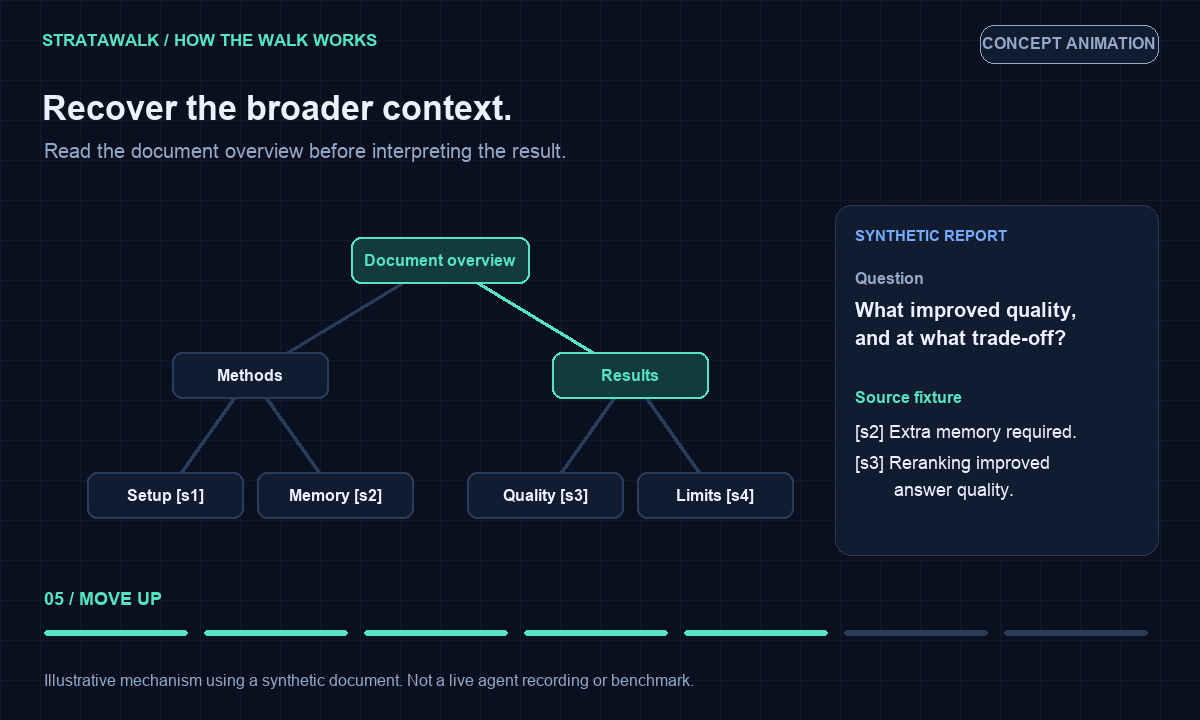
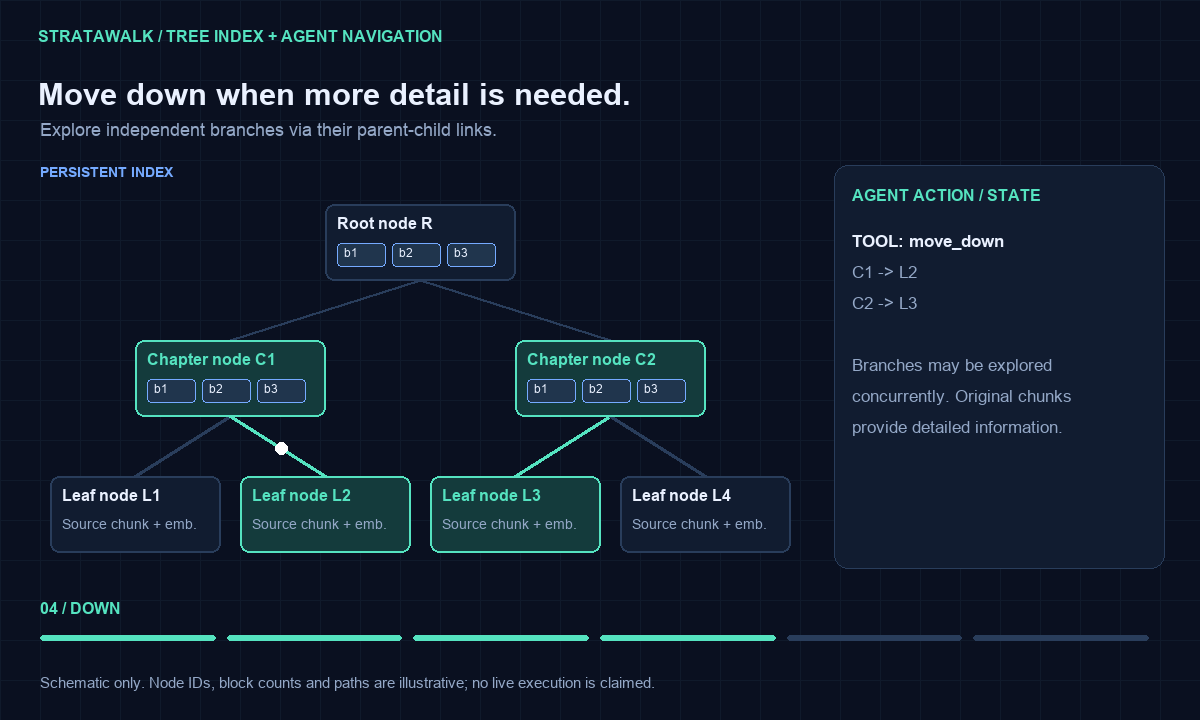
docs: align visuals with tree index and agent navigation

diff --git a/scripts/render_visuals.py b/scripts/render_visuals.py
@@ -25,7 +25,7 @@ def node(d,x,y,label,active=False,width=156):
 # Static hero: one compact brand surface, with readable text and a miniature tree.
 im,d=base(); text(d,(65,58),'STRATAWALK',19,TEAL,True)
 text(d,(65,132),'Long documents.',62,INK,True); text(d,(65,207),'Navigable memory.',62,INK,True)
-text(d,(68,309),'Give agents the big picture',27,MUTED); text(d,(68,349),'and a path back to the evidence.',27,MUTED)
+text(d,(68,309),'Build a bottom-up tree index.',27,MUTED); text(d,(68,349),'Let agents search and walk it.',27,MUTED)
 pill(d,(65,449,276,488),'BUILD BOTTOM-UP'); pill(d,(290,449,505,488),'EXPLORE ANY SCALE',BLUE)
 positions=[(925,175),(815,310),(1035,310),(760,445),(870,445),(980,445),(1090,445)]
 for a,b in [(0,1),(0,2),(1,3),(1,4),(2,5),(2,6)]: d.line((*positions[a],*positions[b]),fill=LINE,width=3)
@@ -35,48 +35,74 @@ for a,b in [(0,1),(1,4)]: d.line((*positions[a],*positions[b]),fill=TEAL,width=3
 text(d,(65,622),'ORDERED SUMMARY TREES  /  MULTI-SCALE SEARCH  /  AGENTIC NAVIGATION',18,MUTED)
 text(d,(65,666),'DESIGN PREVIEW',14,TEAL,True)
 im.save(OUT/'hero.png')
-# Animated mechanism: synthetic report, actual links, no fabricated runtime results.
-steps=[
- ('01 / BUILD','Start with source passages.','Overlapping chunks retain document order and source references.',[3,4,5,6],None),
- ('02 / ABSTRACT','Build memory from the bottom up.','Summarize adjacent groups; independent groups can run concurrently.',[1,2],None),
- ('03 / ORIENT','Keep the whole document in view.','A compact overview connects back to chapters and source passages.',[0],None),
- ('04 / SEARCH','Enter at a useful reading scale.','Semantic search finds a relevant chapter summary.',[2],(2,2)),
- ('05 / MOVE UP','Recover the broader context.','Read the document overview before interpreting the result.',[2,0],(2,0)),
- ('06 / MOVE DOWN','Follow the evidence across branches.','Inspect methods and results, then load their original passages.',[0,1,2,4,5],(0,5)),
- ('07 / FINISH','Answer from source evidence.','In this fixture, the quality gain is paired with higher memory use.',[4,5],None),
-]
-pos=[(440,260),(250,375),(630,375),(165,495),(335,495),(545,495),(715,495)]
-labels=['Document overview','Methods','Results','Setup [s1]','Memory [s2]','Quality [s3]','Limits [s4]']
-edges=[(0,1),(0,2),(1,3),(1,4),(2,5),(2,6)]
+
+# The index is a persistent structure. Tool actions live in a separate panel.
+# Node IDs are illustrative, blocks are inside nodes, and edges are node links.
+pos={ 'R':(420,242), 'C1':(230,378), 'C2':(610,378),
+      'L1':(135,514), 'L2':(325,514), 'L3':(515,514), 'L4':(705,514)}
+edges=[('R','C1'),('R','C2'),('C1','L1'),('C1','L2'),('C2','L3'),('C2','L4')]
+def box(d,key,on=False):
+ x,y=pos[key]; w=170 if key.startswith('L') else 190
+ d.rounded_rectangle((x-w/2,y-38,x+w/2,y+38),radius=9,fill='#143b3c' if on else PANEL,outline=TEAL if on else LINE,width=2)
+ title={'R':'Root node R','C1':'Chapter node C1','C2':'Chapter node C2'}.get(key,'Leaf node '+key)
+ text(d,(x-w/2+12,y-28),title,16,TEAL if on else INK,True)
+ if key.startswith('L'):
+  text(d,(x-w/2+12,y+2),'Source chunk + emb.',14,MUTED)
+ else:
+  for j in range(3):
+   left=x-w/2+12+j*55
+   d.rounded_rectangle((left,y+1,left+48,y+24),radius=4,fill='#20354d',outline=BLUE)
+   text(d,(left+7,y+4),'b'+str(j+1),12,INK)
+def canvas(title,sub):
+ im,d=base(); text(d,(38,27),'STRATAWALK / TREE INDEX + AGENT NAVIGATION',16,TEAL,True)
+ text(d,(38,76),title,31,INK,True); text(d,(40,119),sub,18,MUTED)
+ text(d,(40,164),'PERSISTENT INDEX',14,BLUE,True)
+ return im,d
+def panel(d,title,lines):
+ d.rounded_rectangle((834,165,1164,568),radius=14,fill=PANEL,outline=LINE)
+ text(d,(852,186),title,16,TEAL,True)
+ for i,line in enumerate(lines): text(d,(852,231+i*31),line,17,INK if i==0 else MUTED,i==0)
+def footer(d,n,total,label):
+ text(d,(40,599),label,16,TEAL,True)
+ step=1120/total
+ for j in range(total): d.rounded_rectangle((40+j*step,635,40+(j+1)*step-12,640),radius=2,fill=TEAL if j<=n else LINE)
+ text(d,(40,674),'Schematic only. Node IDs, block counts and paths are illustrative; no live execution is claimed.',15,MUTED)
+def drawtree(d,visible,active):
+ for a,b in edges:
+  if a in visible and b in visible:
+   x,y=pos[a]; xx,yy=pos[b]; d.line((x,y+38,xx,yy-38),fill=TEAL if a in active and b in active else LINE,width=3)
+ for key in visible: box(d,key,key in active)
+# Index construction animation: no agent/tool steps inside the tree.
+build=[
+ ('01 / CHUNK','Create ordered source leaves.','Parse d chapters; split each into overlapping, embedding-bounded chunks.', ['L1','L2','L3','L4'],['L1','L2','L3','L4'],['SOURCE ORDER','Chapter 1: L1, L2, ...','Chapter 2: L3, L4, ...','','Each leaf stores a chunk','and its embedding.']),
+ ('02 / REDUCE','Summarize groups within each chapter.','An LLM reduces n input blocks into a node containing k summary blocks.',list(pos)[1:],['C1','C2'],['BOTTOM-UP REDUCTION','[chunk blocks] -> node','node = [b1, b2, ..., bk]','','Each block gets an embedding.','Long chapters may need','multiple local reduction rounds.']),
+ ('03 / REPEAT','Reduce chapter representations upward.','Preserve source order and node links; repeat until a root budget is reached.',list(pos),['R'],['RECURSIVE ABSTRACTION','chapter nodes -> upper nodes','upper nodes -> root R','','Root contains h blocks.','Intermediate levels omitted','in this compact illustration.']),
+ ('04 / STORE','Persist structure and multi-scale embeddings.','The finished index supports both semantic entry and structural navigation.',list(pos),list(pos),['INDEX READY','Parent-child links: nodes','Embeddings: source chunks','and all summary/topic blocks','','Same-level groups can run','concurrently when independent.'])]
+bframes=[]
+for i,(tag,title,sub,visible,active,lines) in enumerate(build):
+ im,d=canvas(title,sub); drawtree(d,visible,active); panel(d,'INDEX CONSTRUCTION',lines); footer(d,i,len(build),tag)
+ bframes.append(im)
+bframes[0].save(OUT/'index-build.gif',save_all=True,append_images=bframes[1:],duration=2600,loop=0)
+bframes[-1].save(OUT/'index-structure.png')
+walk=[
+ ('01 / PLAN','Understand the question and select entry nodes.','The agent uses a compact chapter/ancestor map, embedding search, or both.',[],None,['AGENT WORKSPACE','User intent -> subquestions','Map and/or embedding search','Select m entry nodes','','Example entries: C1 and C2','The index stays unchanged.']),
+ ('02 / READ','Read several starting nodes.','A semantic hit identifies a block and its containing node.',['C1','C2'],None,['READ ENTRY NODES','C1 contains [b1, b2, b3]','C2 contains [b1, b2, b3]','','Check whether information','is sufficient to answer.']),
+ ('03 / UP','Move up when the information is too specific.','Follow parent links to read a broader abstraction.',['C1','R'],('C1','R'),['TOOL: move_up','C1 -> R','','Read the root blocks for','broader document context.','This is one optional move.']),
+ ('04 / DOWN','Move down when more detail is needed.','Explore independent branches via their parent-child links.',['C1','C2','L2','L3'],('C1','L2'),['TOOL: move_down','C1 -> L2','C2 -> L3','','Branches may be explored','concurrently. Original chunks','provide detailed information.']),
+ ('05 / COMPACT','Keep the active context within budget.','Compress the workspace while retaining findings and source references.',['L2','L3'],None,['TOOL: compact_context','Keep useful findings','Keep source/node references','Keep unresolved subquestions','','Re-enter search or navigation','when more information is needed.']),
+ ('06 / FINISH','Answer when the information is sufficient.','The agent assembles an answer from the information it has gathered.',['L2','L3'],None,['TOOL: finish','User-facing answer','Relevant source references','','Navigation is adaptive.','Every query does not need','every tool shown here.'])]
 frames=[]
-for si,(tag,title,sub,active,travel) in enumerate(steps):
+for si,(tag,title,sub,active,travel,lines) in enumerate(walk):
  for fi in range(12):
-  im,d=base(); text(d,(42,30),'STRATAWALK / HOW THE WALK WORKS',17,TEAL,True)
-  pill(d,(980,25,1158,63),'CONCEPT ANIMATION',MUTED)
-  text(d,(42,89),title,34,INK,True); text(d,(44,139),sub,20,MUTED)
-  for a,b in edges: d.line((*pos[a],*pos[b]),fill=TEAL if a in active and b in active else LINE,width=3)
-  if travel and travel[0]!=travel[1]:
-   a,b=travel; t=fi/11; x=pos[a][0]+(pos[b][0]-pos[a][0])*t; y=pos[a][1]+(pos[b][1]-pos[a][1])*t
-   d.ellipse((x-7,y-7,x+7,y+7),fill='#ffffff')
-  for i,(x,y) in enumerate(pos): node(d,x,y,labels[i],i in active,178 if i==0 else 156)
-  d.rounded_rectangle((835,205,1158,555),radius=16,fill=PANEL,outline=LINE)
-  text(d,(855,227),'SYNTHETIC REPORT',15,BLUE,True)
-  text(d,(855,269),'Question',16,MUTED,True)
-  text(d,(855,298),'What improved quality,',20,INK,True); text(d,(855,326),'and at what trade-off?',20,INK,True)
-  if si<6:
-   text(d,(855,388),'Source fixture',16,TEAL,True)
-   text(d,(855,421),'[s2] Extra memory required.',18)
-   text(d,(855,452),'[s3] Reranking improved',18); text(d,(894,479),'answer quality.',18)
-  else:
-   text(d,(855,388),'Evidence-grounded answer',16,TEAL,True)
-   text(d,(855,423),'Reranking improved quality',17)
-   text(d,(855,451),'[s3], with higher memory',17)
-   text(d,(855,479),'requirements [s2].',17)
-  text(d,(44,588),tag,18,TEAL,True)
-  for k in range(7):
-   x=44+k*160; d.rounded_rectangle((x,630,x+143,635),radius=2,fill=TEAL if k<=si else LINE)
-  text(d,(44,671),'Illustrative mechanism using a synthetic document. Not a live agent recording or benchmark.',16,MUTED)
-  frames.append(im)
-frames[0].save(OUT/'agent-walk.gif',save_all=True,append_images=frames[1:],duration=160,loop=0,optimize=True)
-frames[58].save(OUT/'agent-walk-poster.png')
-print('Generated hero.png, agent-walk.gif, agent-walk-poster.png')
+  im,d=canvas(title,sub); drawtree(d,list(pos),active); panel(d,'AGENT ACTION / STATE',lines)
+  if travel:
+   a,b=travel; x,y=pos[a]; xx,yy=pos[b]; t=fi/11
+   # Travel on the actual edge between card boundaries, never root-to-leaf jumps.
+   direction=1 if yy>y else -1
+   sy=y+direction*38; ey=yy-direction*38
+   px=x+(xx-x)*t; py=sy+(ey-sy)*t
+   d.ellipse((px-6,py-6,px+6,py+6),fill='#ffffff')
+  footer(d,si,len(walk),tag); frames.append(im)
+frames[0].save(OUT/'agent-walk.gif',save_all=True,append_images=frames[1:],duration=200,loop=0,optimize=True)
+frames[42].save(OUT/'agent-walk-poster.png')
+print('Generated hero, index construction, index structure, and navigation visuals.')

diff --git a/README.md b/README.md
@@ -21,19 +21,35 @@ The whole document reveals **how the argument fits together**.
 It builds an ordered hierarchy from source passages to a document overview,
 then lets an agent search, explore, and return to the original evidence.
 
+## Build the Index
+
+<img src="assets/index-build.gif" alt="Bottom-up indexing: overlapping chunks become leaves; LLM reduction creates chapter nodes containing multiple summary blocks; repeated reduction produces a root with h blocks. All source and summary blocks are embedded." width="100%">
+
+**The tree is the index.** `R`, `C1`, `C2`, and `L1`–`L4` are illustrative
+node IDs, not execution steps. Each upper node contains several logical blocks
+(summary paragraphs or topics), each with an embedding. Leaf nodes retain
+source chunks and their embeddings. Parent–child edges describe the index structure.
+
+The compact drawing shows two chapters and omits intermediate reduction levels.
+Actual chapter count, tree depth, and block counts depend on the document and
+model budgets. Overlapping chunks and adjacent groups preserve source order.
+
 ## Watch the Walk
 
-<img src="assets/agent-walk.gif" alt="Concept animation: source chunks form a summary tree; an agent searches a chapter, moves up for context, then descends into memory and quality evidence to answer with source references." width="100%">
+<img src="assets/agent-walk.gif" alt="Agent navigation on a fixed tree index: select multiple entry nodes using a document map or embedding search, read their blocks, follow parent and child links, compact the workspace, and finish." width="100%">
 
-<sub>Looping mechanism illustration with a synthetic report. This is not a live execution recording or a benchmark result.</sub>
+**The right-hand panel shows Agent actions; the left-hand tree remains the index.**
+The agent understands or decomposes the question, selects m entry nodes using
+the chapter/ancestor map or embedding search, and evaluates whether it has
+enough information. It can move upward for abstraction, downward for detail,
+or search again. Independent branches can be explored concurrently.
 
-**Example question:** “What improved quality, and at what trade-off?”
+The animation illustrates possible actions, not a mandatory sequence.
+Compaction manages the active context without rebuilding the tree.
 
-The illustration follows a search into the results chapter, a move upward to
-recover context, and a descent into two evidence branches. In this synthetic
-fixture, reranking improves answer quality while requiring more memory.
+<sub>Both animations illustrate the proposed mechanism. They are not live execution recordings or benchmark results.</sub>
 
-[View the still image](assets/agent-walk-poster.png) · [Inspect or regenerate the animation](scripts/render_visuals.py)
+[View the index structure](assets/index-structure.png) · [View the navigation still](assets/agent-walk-poster.png) · [Regenerate the visuals](scripts/render_visuals.py)
 
 ## How It Works
 
@@ -44,15 +60,18 @@ fixture, reranking improves answer quality while requiring more memory.
 ### One document. Multiple reading scales.
 
 ```text
-Document overview                  ← global orientation
-├── Chapter summary                ← arguments and themes
-│   ├── Local summary              ← focused context
-│   │   ├── Source passage         ← original evidence
-│   │   └── Source passage
+Root node R: [block 1, ..., block h]
+├── Chapter node C1: [summary block 1, ..., block k]
+│   ├── Leaf L1: source chunk + embedding
+│   ├── Leaf L2: source chunk + embedding
 │   └── ...
-└── Chapter summary
-    └── ...
+├── Chapter node C2: [summary block 1, ..., block k]
+│   └── ...
+└── ...
 ```
+
+*Intermediate levels are omitted. All summary blocks also have embeddings;
+block counts can vary between nodes.*
 
 **Build upward.** LlamaIndex-based processing establishes source sections.
 Token-bounded passages become leaves. Adjacent groups are summarized into
